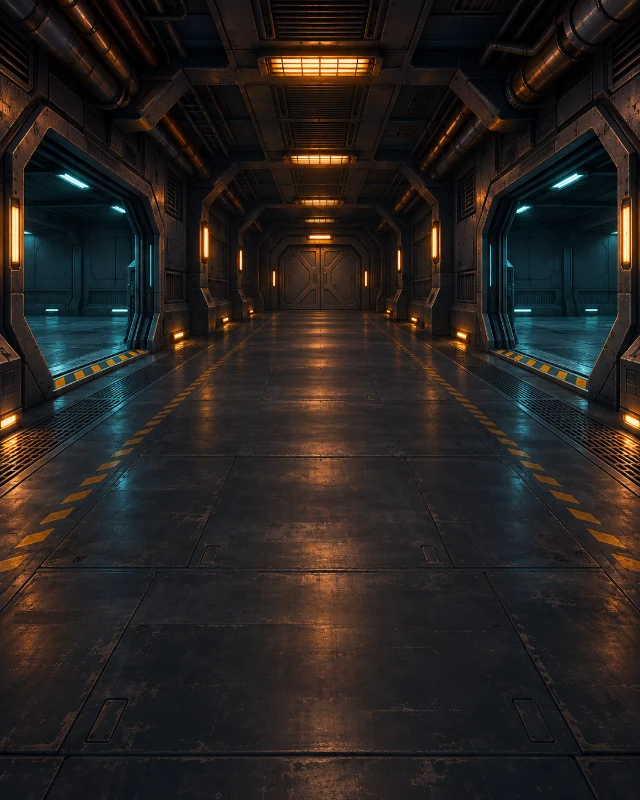
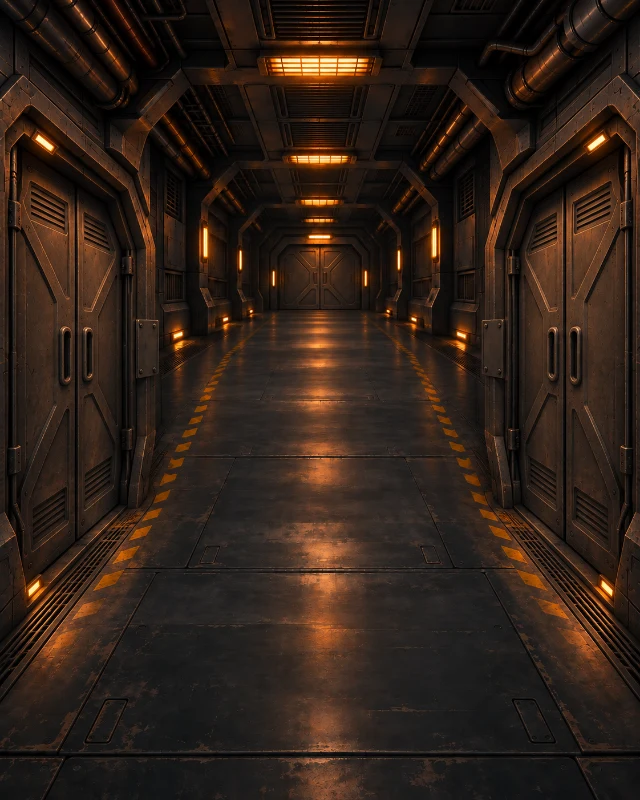
Simplify corridor encounters and integrate recessed airlocks
Refs #72, #39. Use six cargo stacks and two boarders, replace floating labels with nonverbal cues, and animate textured door leaves within the revised corridor walls.

diff --git a/src/game/scene.ts b/src/game/scene.ts
@@ -1,7 +1,7 @@
 import Phaser from 'phaser';
 import type { InputFrame } from './input';
 import {
-  createBoarding, stepBoarding, BOARDING_TUNING, BOARDING_DEPTHS, boardingCover, boardingBoarderPose, boardingAirlockTargetActive, BOARDING_AIRLOCK_TARGETS, BOARDING_EJECTION_TIME, BOARDING_VENT_WARNING, difficultyFor, BOARDING_LINE, BOARDING_CYCLE, BOARDING_WARNING, BOARDING_CARRIER_RADIUS, BOARDING_AIRLOCKS, BOARDING_COVER, BOARDING_MINE_LIFETIME, BOARDING_BLAST_RADIUS, type BoardingState, type BoardingInput,
+  createBoarding, stepBoarding, BOARDING_INTERIOR_SLOTS, BOARDING_DEPTHS, boardingCover, boardingBoarderPose, boardingAirlockTargetActive, BOARDING_AIRLOCK_TARGETS, BOARDING_EJECTION_TIME, BOARDING_VENT_WARNING, BOARDING_VENT_RECHARGE, difficultyFor, BOARDING_LINE, BOARDING_CYCLE, BOARDING_WARNING, BOARDING_CARRIER_RADIUS, BOARDING_MINE_LIFETIME, BOARDING_BLAST_RADIUS, type BoardingState, type BoardingInput,
   createSpaceGunner, stepSpaceGunner, SPACE_GUNNER_DEFENSE_LINE, type SpaceGunnerInput, type SpaceGunnerState, type SpaceGunnerAttacker,
   gunnerTargetAt, gunnerFireEvery, GUNNER_SHOT_FEEDBACK_SECONDS, type GunnerShotFeedback,
   createBomber, createFlight, createGunner, createLifeSupport, createSpaceBattleBomber, createSpaceBattlePilot, stepBomber,
@@ -39,6 +39,34 @@ export class FlightScene extends Phaser.Scene {
     return layer;
   }
   private interiorDepth(y: number) { return -1.9 + y / 600; }
+
+  private doorMasks: { shape: Phaser.GameObjects.Graphics; mask: Phaser.Display.Masks.GeometryMask }[] = [];
+  private airlockOutline(side: number) {
+    // Fits the recessed leaf surfaces in the corridor texture, in logical canvas coordinates.
+    return [[12,114],[22,101],[76,141],[90,179],[90,350],[21,395],[12,366]]
+      .map(([x,y]) => ({ x: side ? WIDTH - x : x, y }));
+  }
+
+  private paintAirlockPanels(side: number, opening: number) {
+    if (!this.hasArt('boarding-corridor')) return false;
+    let clip = this.doorMasks[side];
+    if (!clip) {
+      const shape = this.add.graphics().setVisible(false);
+      shape.fillStyle(0xffffff).fillPoints(this.airlockOutline(side), true);
+      clip = this.doorMasks[side] = { shape, mask: shape.createGeometryMask() };
+    }
+    const minX = side ? 390 : 12, maxX = side ? 468 : 90, seam = (minX + maxX) / 2;
+    for (const half of [0,1]) {
+      const slide = (half ? 1 : -1) * 45 * opening;
+      this.drawArt('boarding-corridor', WIDTH / 2 + slide, HEIGHT / 2, WIDTH, HEIGHT, 0, 1, false, -1.94);
+      const panel = this.artPool[this.artUsed - 1];
+      const textureWidth = panel.frame?.realWidth ?? 640, textureHeight = panel.frame?.realHeight ?? 800;
+      const x = half ? seam : minX, width = half ? maxX - seam : seam - minX;
+      panel.setCrop(x / WIDTH * textureWidth, 100 / HEIGHT * textureHeight,
+        width / WIDTH * textureWidth, 296 / HEIGHT * textureHeight).setMask(clip.mask);
+    }
+    return true;
+  }
 
   private paintCargo(x: number, y: number, scale: number) {
     const g = this.interiorLayer(this.interiorDepth(y + 1));
@@ -81,6 +109,8 @@ export class FlightScene extends Phaser.Scene {
     if (!this.hasArt(name)) return false;
     const image = this.artPool[this.artUsed] ?? this.add.image(0, 0, `illustrated-${name}`);
     this.artPool[this.artUsed++] = image;
+    // Images move between pooled roles; never retain a previous door crop or mask.
+    image.setCrop?.(); image.clearMask?.();
     image.setTexture(`illustrated-${name}`).setPosition(x, y).setDisplaySize(width, height)
       .setRotation(rotation).setAlpha(alpha).setDepth(depth).setVisible(true);
     return true;
@@ -258,45 +288,55 @@ export class FlightScene extends Phaser.Scene {
   private paintBoardingMode(g: Phaser.GameObjects.Graphics) {
     const s = this.boarding;
     if (s.role === 'Life Support') {
-      g.fillStyle(0x0a1425, .8); g.fillRoundedRect(12, 14, 456, 52, 6);
-      this.drawLabel('HOLD THE CORRIDOR', 240, 28, 15, '#79e1ce');
-      this.drawLabel(s.elapsed < 5 ? 'Shoot raised rifles • Shoot glowing door targets' : `Shot ${s.shotBoarders} • Ejected ${s.ejected}`, 240, 51, 11);
+      if (s.elapsed < 5) {
+        g.fillStyle(0x0a1425, .8); g.fillRoundedRect(12, 14, 456, 52, 6);
+        this.drawLabel('HOLD THE CORRIDOR', 240, 28, 15, '#79e1ce');
+        this.drawLabel('Shoot raised rifles • Shoot glowing door targets', 240, 51, 11);
+      }
       const doors = this.interiorLayer(-1.95);
-      for (const [i, z] of BOARDING_AIRLOCKS.entries()) {
+      for (const i of [0,1]) {
         const lock = s.airlocks[i], active = boardingAirlockTargetActive(s, i), target = BOARDING_AIRLOCK_TARGETS[i];
         const opening = lock.warning !== null ? (1 - lock.warning / BOARDING_VENT_WARNING) ** 2
           : lock.openRemaining > 0 ? Math.min(1, lock.openRemaining / .12) : 0;
-        const doorX = i ? 399 : 21, doorW = 60, doorY = 150, doorH = 280;
-        doors.fillStyle(0x030912, .92); doors.fillRect(doorX, doorY, doorW, doorH);
-        doors.lineStyle(3, active || opening > 0 ? 0x79e1ce : 0x526776); doors.strokeRect(doorX, doorY, doorW, doorH);
-        for (const half of [0, 1]) {
-          const panelW = doorW / 2 * (1 - opening);
-          const x = half ? doorX + doorW - panelW : doorX;
-          doors.fillStyle(0x263c49, .95); doors.fillRect(x, doorY + 3, panelW, doorH - 6);
-          doors.lineStyle(1, 0x8ba4ad, .65); doors.strokeRect(x, doorY + 3, panelW, doorH - 6);
-          for (const y of [180, 245, 355, 400]) {
-            doors.lineStyle(2, 0x101e2a); doors.lineBetween(x + 2, y, x + Math.max(2, panelW - 2), y);
+        const outline = this.airlockOutline(i);
+        doors.fillStyle(0x03080d); doors.fillPoints(outline, true);
+        if (!this.paintAirlockPanels(i, opening)) {
+          // Perspective fallback with a widening central opening, never a luminous flat rectangle.
+          const shell = this.interiorLayer(-1.94), outer = i ? 468 : 12, inner = i ? 390 : 90;
+          const point = (u: number, v: number) => ({x: outer + (inner - outer) * u,
+            y: (114 + 65 * u) * (1 - v) + (395 - 45 * u) * v});
+          for (const [from,to] of [[0,(1-opening)/2],[1-(1-opening)/2,1]]) {
+            shell.fillStyle(i ? 0x423a31 : 0x4a3b2b);
+            shell.fillPoints([point(from,0),point(to,0),point(to,1),point(from,1)],true);
+            shell.lineStyle(1,0x8c785a,.45);
+            shell.strokePoints([point(from,0),point(to,0),point(to,1),point(from,1)],true);
           }
         }
         if (lock.openRemaining > 0) {
-          const fx = this.interiorLayer(-.55), phase = this.decorativeTime(s.elapsed);
-          for (let n = 0; n < 9; n++) {
-            const t = ((phase * 2 + n / 9) % 1), x = (i ? 330 : 150) + (i ? 120 : -120) * t;
-            const y = 170 + n * 27;
-            fx.lineStyle(1 + t, 0xb9f6ef, .2 + .5 * t);
-            fx.lineBetween(x, y, x + (i ? -20 : 20), y + 6);
+          const fx = this.interiorLayer(-.55), phase = this.decorativeTime(s.elapsed), endX = i ? 430 : 50;
+          for (let n = 0; n < 7; n++) {
+            const t = ((phase * 2 + n / 7) % 1), startX = i ? 355 : 125, startY = 235 + n * 17;
+            const x = startX + (endX - startX) * t, y = startY + (285 - startY) * t;
+            fx.lineStyle(1 + t, 0xb9d9d3, .15 + .4 * t);
+            fx.lineBetween(x, y, x + (i ? -15 : 15), y + (startY - 285) * .08);
           }
         }
-        const color = lock.warning !== null ? 0xffca83 : active ? 0x79ffe1 : 0x526776;
-        g.fillStyle(0x102330, .95); g.fillRoundedRect(target.x - 27, target.y - 30, 54, 60, 6);
-        g.lineStyle(3, color); g.strokeCircle(target.x, target.y, target.radius);
-        g.fillStyle(color, active ? .25 : .08); g.fillCircle(target.x, target.y, target.radius - 3);
-        g.lineStyle(2, color); g.lineBetween(target.x - 10, target.y, target.x + 10, target.y);
-        g.lineBetween(target.x, target.y - 10, target.x, target.y + 10);
-        this.drawLabel(lock.warning !== null ? 'OPENING' : lock.openRemaining > 0 ? 'VENTING' : lock.cooldown > 0 ? `${Math.ceil(lock.cooldown)}s` : active ? 'SHOOT' : 'STANDBY', target.x, target.y + 40, 10, active ? '#79ffe1' : '#c7dce4');
-        this.drawLabel(i ? 'RIGHT AIRLOCK' : 'LEFT AIRLOCK', z.x + z.width / 2, 125, 9);
+        const color = lock.warning !== null ? 0xffca83 : active ? 0x79ffe1 : 0x52606a;
+        // An inset wall control, with readiness light and a quiet segmented recharge gauge.
+        g.fillStyle(0x0d161d, .9); g.fillCircle(target.x, target.y, 26);
+        g.lineStyle(2, 0x6e7779, .7); g.strokeCircle(target.x, target.y, 25);
+        g.fillStyle(color, active ? .3 : .08); g.fillCircle(target.x, target.y, 20);
+        g.lineStyle(active || lock.warning !== null ? 3 : 1, color, active ? 1 : .6);
+        g.strokeCircle(target.x, target.y, active ? target.radius : 18);
+        g.lineBetween(target.x - 8, target.y, target.x + 8, target.y);
+        g.lineBetween(target.x, target.y - 8, target.x, target.y + 8);
+        const recharge = BOARDING_VENT_RECHARGE * (this.config.naturalOne ? 2 : 1);
+        for (let segment = 0; segment < 8; segment++) {
+          g.fillStyle(segment / 8 < 1 - lock.cooldown / recharge ? 0x7bada5 : 0x293638, .85);
+          g.fillRect(target.x - 23 + segment * 6, target.y + 31, 4, 3);
+        }
       }
-      for (let depth = 0; depth < 3; depth++) for (const slot of [0, 1, 2, 3]) {
+      for (let depth = 0; depth < 3; depth++) for (const slot of BOARDING_INTERIOR_SLOTS) {
         const c = boardingCover(slot, depth);
         this.paintCargo(c.x, c.y, BOARDING_DEPTHS[depth].scale);
       }
@@ -326,14 +366,13 @@ export class FlightScene extends Phaser.Scene {
           }
         }
         const radius = BOARDING_DEPTHS[b.depth].radius;
-        this.drawLabel(b.phase === 'relocating' ? 'MOVING' : exposed ? (b.remaining < .5 ? 'FIRING' : 'AIMING') : 'COVERED', b.x, b.y - 72 * scale, 10, exposed ? '#ffba9c' : '#c0cfdf');
         if (exposed) {
           g.lineStyle(1, 0xffca83, .7);
           g.strokeCircle(b.x, b.y, radius);
         }
       }
       for (const e of s.ejections) {
-        const t = 1 - e.remaining / BOARDING_EJECTION_TIME, endX = e.side ? 455 : 25;
+        const t = 1 - e.remaining / BOARDING_EJECTION_TIME, endX = e.side ? 430 : 50;
         const x = e.x + (endX - e.x) * t, y = e.y + (285 - e.y) * t;
         const scale = e.scale * (1 - .85 * t), alpha = 1 - t;
         if (!this.drawArt('boarding-boarder', x, y, 53 * scale, 126 * scale, this.reducedMotion?.matches ? 0 : (e.side ? 1 : -1) * t, alpha, false, -.5)) {
@@ -362,7 +401,6 @@ export class FlightScene extends Phaser.Scene {
       if (s.impactFlash > 0) {
         g.fillStyle(0xff465d, s.impactFlash * .7);
         g.fillRect(s.impactSide ? WIDTH - 55 : 0, 90, 55, 420);
-        this.drawLabel(s.impactSide ? 'HIT FROM RIGHT' : 'HIT FROM LEFT', 240, 82, 12, '#ffb4a2');
       }
     }
     else {

diff --git a/tests/rendering.test.ts b/tests/rendering.test.ts
@@ -346,7 +346,7 @@ test('illustrated sprites reuse a bounded pool, hide retired objects and leave a
   h.scene.textures = { exists: () => true };
   h.scene.add.image = (_x: number, _y: number, texture: string) => {
     const image: any = { texture };
-    for (const method of ['setTexture', 'setPosition', 'setDisplaySize', 'setRotation', 'setAlpha', 'setDepth', 'setVisible']) {
+    for (const method of ['setCrop', 'setMask', 'clearMask', 'setTexture', 'setPosition', 'setDisplaySize', 'setRotation', 'setAlpha', 'setDepth', 'setVisible']) {
       image[method] = (...args: any[]) => { image[method.slice(3)] = args; return image; };
     }
     images.push(image); return image;
@@ -398,14 +398,14 @@ test('Boarding textures and labels are pooled, retire on mode switch, and retain
   const h=harness(),images:any[]=[],labels:any[]=[];
   const object=(collection:any[],methods:string[])=>{const o:any={};for(const m of methods)o[m]=(...v:any[])=>{o[m.slice(3)]=v;return o;};collection.push(o);return o;};
   h.scene.textures={exists:()=>true};
-  h.scene.add.image=()=>object(images,['setTexture','setPosition','setDisplaySize','setRotation','setAlpha','setDepth','setVisible']);
+  h.scene.add.image=()=>object(images,['setCrop','setMask','clearMask','setTexture','setPosition','setDisplaySize','setRotation','setAlpha','setDepth','setVisible']);
   h.scene.add.text=()=>object(labels,['setText','setPosition','setOrigin','setFontSize','setColor','setDepth','setVisible']);
   h.scene.begin({total:10,naturalOne:false},'Boarding Party','Life Support');
   const s=h.scene.boarding;s.boarders=[{id:1,x:200,y:193,slot:0,depth:0,phase:'exposed',remaining:.3},{id:2,x:415,y:372,slot:3,depth:1,phase:'relocating',remaining:.8}];
   s.lasers=[{id:3,x:200,y:193,side:0,duration:.9,remaining:.4}];const snapshot=JSON.stringify(s);freeze(s);h.paint();
   assert.ok(images.some(i=>i.Texture[0]==='illustrated-boarding-corridor'));
   assert.ok(images.some(i=>i.Texture[0]==='illustrated-boarding-rifle'&&i.Depth[0]>.0));
-  assert.ok(labels.some(l=>l.Text[0]==='SHOOT'));const count=[images.length,labels.length];h.paint();assert.deepEqual([images.length,labels.length],count);
+  assert.ok(labels.every(l=>!['SHOOT','STANDBY','OPENING','VENTING','COVERED','AIMING','FIRING','MOVING','LEFT AIRLOCK','RIGHT AIRLOCK'].includes(l.Text?.[0])));const count=[images.length,labels.length];h.paint();assert.deepEqual([images.length,labels.length],count);
   assert.equal(JSON.stringify(s),snapshot);
   h.scene.textures.exists=(key:string)=>key!=='illustrated-boarding-corridor';h.paint();assert.ok(h.commands.some(c=>c[0]==='strokeRect'&&c[1]===195&&c[2]===100));
   assert.ok(images.some(i=>i.Texture[0]==='illustrated-boarding-boarder'&&i.Visible[0]));
@@ -415,11 +415,11 @@ test('Boarding textures and labels are pooled, retire on mode switch, and retain
 
 test('cargo stays present and depth-orders with enemies; ducked bodies do not leak beneath stacks',()=>{
   const h=harness(),images:any[]=[];
-  const object=()=>{const o:any={};for(const m of ['setTexture','setPosition','setDisplaySize','setRotation','setAlpha','setDepth','setVisible'])o[m]=(...v:any[])=>{o[m.slice(3)]=v;return o;};images.push(o);return o;};
+  const object=()=>{const o:any={};for(const m of ['setCrop','setMask','clearMask','setTexture','setPosition','setDisplaySize','setRotation','setAlpha','setDepth','setVisible'])o[m]=(...v:any[])=>{o[m.slice(3)]=v;return o;};images.push(o);return o;};
   h.scene.textures={exists:()=>true};h.scene.add.image=object;
   h.scene.begin({total:10,naturalOne:false},'Boarding Party','Life Support');h.paint();
   const cargo=()=>h.layers.filter(l=>l.visible&&l.commands.some(c=>c[0]==='fillEllipse'));
-  assert.equal(cargo().length,12,'all stacks exist without enemies');
+  assert.equal(cargo().length,6,'one fixed stack per side at each depth, even without enemies');
   const emptyDepths=cargo().map(l=>l.depth);
   const s=h.scene.boarding;s.boarders=[{id:1,...rules.boardingCover(0,0),slot:0,depth:0,phase:'exposed',remaining:1},{id:2,...rules.boardingCover(1,2),slot:1,depth:2,phase:'warning',remaining:.5}];
   h.paint();assert.deepEqual(cargo().map(l=>l.depth),emptyDepths);
@@ -440,4 +440,38 @@ test('door/ejection animation phases render frozen states with art or fallbacks 
     h.paint();const count=h.layers.length;h.paint();assert.equal(h.layers.length,count);assert.equal(JSON.stringify(state),before);
     assert.ok(h.commands.some(c=>c[0]==='lineBetween'),'airflow is drawn');
   }
+});
+
+test('corridor keeps only opening guidance, then removes all in-scene labels, retaining nonverbal cues',()=>{
+  const h=harness(),labels:any[]=[];
+  h.scene.add.text=()=>{const o:any={};for(const m of ['setText','setPosition','setOrigin','setFontSize','setColor','setDepth','setVisible'])o[m]=(...v:any[])=>{o[m.slice(3)]=v;return o;};labels.push(o);return o;};
+  h.scene.begin({total:10,naturalOne:true},'Boarding Party','Life Support');
+  const s=h.scene.boarding;s.boarders=[{id:1,...rules.boardingCover(0,0),slot:0,depth:0,phase:'exposed',remaining:.2},{id:2,x:415,y:337,slot:1,depth:1,phase:'relocating',remaining:.8}];
+  h.paint();assert.equal(labels.filter(l=>l.Visible?.[0]).length,2,'brief opening guidance only');
+  s.elapsed=6;s.impactFlash=.2;s.airlocks[0].cooldown=8;h.paint();
+  assert.equal(labels.filter(l=>l.Visible?.[0]).length,0,'no enemy, door or damage words in the corridor');
+  assert.ok(h.commands.some(c=>c[0]==='fillCircle'&&c[1]===rules.BOARDING_AIRLOCK_TARGETS[1].x),'lit wall target remains');
+  assert.ok(h.commands.filter(c=>c[0]==='fillRect'&&c[4]===3).length>=16,'two segmented recharge gauges');
+});
+
+test('textured airlock panels slide within two reused masks and release crops/masks on mode changes',()=>{
+  const h=harness(),images:any[]=[];
+  h.scene.textures={exists:()=>true};
+  h.scene.add.image=()=>{
+    const o:any={frame:{realWidth:640,realHeight:800},mask:null};
+    for(const m of ['setTexture','setPosition','setDisplaySize','setRotation','setAlpha','setDepth','setVisible','setCrop'])o[m]=(...v:any[])=>{o[m.slice(3)]=v;return o;};
+    o.setMask=(mask:any)=>{o.mask=mask;return o;};o.clearMask=()=>{o.mask=null;return o;};images.push(o);return o;
+  };
+  h.scene.begin({total:10,naturalOne:false},'Boarding Party','Life Support');h.paint();
+  const panels=()=>images.filter(i=>i.Visible[0]&&i.mask);
+  assert.equal(panels().length,4);assert.equal(new Set(panels().map(i=>i.mask)).size,2);
+  assert.ok(panels().every(i=>i.Crop.length===4&&i.Crop.every(Number.isFinite)&&i.Crop[2]>0&&i.Crop[3]>0));
+  const closed=panels().map(i=>i.Position[0]),count=h.layers.length;
+  h.scene.boarding.airlocks[0].warning=.3;h.paint();
+  assert.ok(panels()[0].Position[0]<closed[0]);assert.ok(panels()[1].Position[0]>closed[1]);
+  assert.equal(h.layers.length,count,'door clipping shapes are reused');
+  h.scene.situation='Asteroid Field';h.scene.role='Pilot';h.paint();
+  assert.ok(images.filter(i=>i.Visible[0]).every(i=>i.mask===null&&i.Crop.length===0),'reused images never retain door clipping');
+  h.scene.situation='Boarding Party';h.scene.role='Life Support';h.scene.textures.exists=(key:string)=>key!=='illustrated-boarding-corridor';h.paint();
+  assert.equal(panels().length,0);assert.ok(h.commands.some(c=>c[0]==='fillPoints'),'perspective door fallback stays usable');
 });

diff --git a/tests/boarding.test.ts b/tests/boarding.test.ts
@@ -256,9 +256,9 @@ test('interrupted exposed attack emits no laser; surviving boarders advance thro
   run(s,.65+BOARDING_TUNING.Medium.attackTime+1.6);assert.equal(s.boarders[0].depth,2);
   assert.ok(BOARDING_DEPTHS[2].scale>BOARDING_DEPTHS[0].scale);assert.ok(BOARDING_DEPTHS[2].laserTime<BOARDING_DEPTHS[0].laserTime);
 });
-test('first-person opening has no boarders for two seconds and never exceeds four active enemies',()=>{
+test('first-person opening has no boarders for two seconds and never exceeds two active enemies',()=>{
   const s=createBoarding('Life Support');run(s,1.95);assert.equal(s.boarders.length,0);run(s,.1);assert.equal(s.boarders.length,1);
-  for(let i=0;i<500&&!s.finished;i++){tick(s);assert.ok(s.boarders.length<=4);}
+  for(let i=0;i<500&&!s.finished;i++){tick(s);assert.ok(s.boarders.length<=2);}
 });
 
 test('warning craft can be destroyed before movement, including a warning expiry inside a swept mine step',()=>{
@@ -266,5 +266,23 @@ test('warning craft can be destroyed before movement, including a warning expiry
     const s=state('Bomber');s.pods=[{...pod(1,240,230,-500),warningRemaining:warning}];
     s.mines=[{id:4,x:240,y:230,armIn:0,expiresIn:4,blastRadius:58}];tick(s);
     assert.equal(s.pods.length,0);assert.equal(s.intercepted,1);assert.equal(s.breaches,0);assert.equal(s.hull,3);
+  }
+});
+
+test('Life Support uses one slot per side, caps at two in every band, and reuses freed slots',()=>{
+  for(const total of [5,10,15,16])for(const naturalOne of [false,true]) {
+    const cfg={total,naturalOne},s=createBoarding('Life Support');
+    for(let i=0;i<400;i++) {
+      s.hull=5;tick(s,{},.05,cfg);
+      assert.ok(s.boarders.length<=2);assert.ok(s.boarders.every(b=>b.slot===0||b.slot===1));
+      assert.equal(new Set(s.boarders.map(b=>b.slot)).size,s.boarders.length);
+    }
+    assert.equal(s.boarders.length,2);
+    for(const side of [0,1]) {
+      const survivor=s.boarders.find(b=>b.slot!==side)!;
+      s.boarders=s.boarders.filter(b=>b.slot!==side);s.spawnIn=0;tick(s,{},.05,cfg);
+      assert.equal(s.boarders.length,2);assert.ok(s.boarders.some(b=>b.id===survivor.id));
+      const replacement=s.boarders.find(b=>b.slot===side)!;assert.equal(replacement.depth,0);assert.equal(replacement.phase,'warning');
+    }
   }
 });

diff --git a/src/game/rules.ts b/src/game/rules.ts
@@ -1558,7 +1558,8 @@ export function boardingCover(slot: number, depth: number) {
   const d = BOARDING_DEPTHS[depth];
   return { x: 240 + (slot % 2 ? 1 : -1) * (d.spread + (slot >= 2 ? 15 : -15)), y: d.y + (slot >= 2 ? 22 : -12) };
 }
-export const BOARDING_COVER = [0, 1, 2, 3].map(slot => boardingCover(slot, 0));
+export const BOARDING_INTERIOR_SLOTS = [0, 1] as const;
+export const BOARDING_COVER = BOARDING_INTERIOR_SLOTS.map(slot => boardingCover(slot, 0));
 export const BOARDING_AIRLOCKS = [{ x: 20, y: 90, width: 95, height: 380 }, { x: 365, y: 90, width: 95, height: 380 }];
 export interface BoardingPod {
   kind: 'probe' | 'shuttle';
@@ -1851,7 +1852,10 @@ function stepBoardingInterior(s: BoardingState, config: FlightConfig, input: Boa
     return;
   s.spawnIn -= dt;
   while (s.spawnIn <= 0) {
-    const start = Math.floor(random() * 4), slot = [0, 1, 2, 3].map(i => (start + i) % 4).find(slot => !s.boarders.some(b => b.slot === slot));
+    const start = Math.floor(random() * BOARDING_INTERIOR_SLOTS.length);
+    const slot = s.boarders.length < BOARDING_INTERIOR_SLOTS.length
+      ? BOARDING_INTERIOR_SLOTS.map((_, i) => BOARDING_INTERIOR_SLOTS[(start + i) % BOARDING_INTERIOR_SLOTS.length]).find(slot => !s.boarders.some(b => b.slot === slot))
+      : undefined;
     if (slot !== undefined)
       s.boarders.push({ id: s.nextId++, ...boardingCover(slot, 0), depth: 0, slot, phase: 'warning', remaining: BOARDING_COVER_WARNING });
     s.spawnIn += tuning.boarderEvery;

diff --git a/docs/boarding-cargo-airlocks.md b/docs/boarding-cargo-airlocks.md
@@ -4,26 +4,29 @@ Drake approved this follow-up on 2026-11-06. It supersedes the Life Support cove
 
 ## Current behavior
 
-- Twelve fixed cargo stacks (four slots at three depths) sit on the floor. Each has a smaller case resting on a larger case, perspective top/side faces, straps, seams, labels and contact shadows. Cargo and boarders share projected depth ordering. Covered enemies duck behind their own stack; only a helmet peeks above it. Exposed aiming regions and rule-owned projection/hit radii retain their existing dimensions.
+- Six fixed cargo stacks (one per side at three depths) sit on the floor. Each has a smaller case resting on a larger case, perspective top/side faces, straps, seams, labels and contact shadows. Cargo and boarders share projected depth ordering. Covered enemies duck behind their own stack; only a helmet peeks above it. Exposed aiming regions and rule-owned projection/hit radii retain their existing dimensions.
+- At most two boarders are active, one slot per side. A freed slot can respawn at the far depth on the existing spawn cadence; attack timings, depth progression and rifle cooldowns remain unchanged.
+- Enemy state words, door names/prompts and recharge text are removed. After five seconds the opening guidance disappears too. Ducking, raised rifles, muzzle lights, motion and lasers communicate state. An inset wall control lights during a crossing, with eight small recharge segments below it. The external main HUD remains.
 - Each side door has a rule-owned target at (100,280) or (380,280), radius 23 logical pixels. A target lights during that side's relocating boarder approach/occupancy (the first two thirds of the existing 1.6-second relocation) when its independent airlock is ready. Departure, absence of a crossing, opening and recharge leave the target unlit. These dimensions are provisional playtest tuning.
 - Shoot a glowing target with the rifle to activate its door. Touch aims plus separate Fire; mouse aims and primary click/hold fires; keyboard arrows/WASD aim at the existing normalized 225px/s cap and Space/Enter fires. Fire also works with mouse or keyboard aim. There are no Vent buttons or Q/E shortcuts. Controls use the same rifle cooldown as enemy shots. A shot hits one lit control or one exposed boarder, with control priority if their aiming areas overlap; an unlit control does not intercept a shot.
 - Airlocks retain a 0.6-second warning and independent eight-second recharge (16 seconds on Natural 1). Occupancy is evaluated at warning expiry: a late shot may open an empty bay and still consumes the recharge. Ejection wins a tied enemy emission; already-fired lasers remain live.
+- The revised generated corridor contains recessed wall airlocks with matching perspective, metal, wear, shadows and amber practical lighting. The original generated door leaves are sampled directly from that same background texture, split into two cropped images per side and clipped by two reusable geometry masks. During opening they slide behind the jambs without scaling/compressing the panels. No full-door luminous outline is added. Missing artwork uses shaded perspective polygons. See [artwork provenance](illustrated-artwork.md) and the [exact two editing prompts](boarding-corridor-art-prompts.json).
 - Doors slide open, airflow streaks move into the opening, and ejected boarders move toward the doorway while shrinking/fading for approximately 0.45 seconds. This duration is provisional. Ejection and its 125-point reward occur once at warning expiry; animation has no collision/damage/scoring role. Reduced motion suppresses decorative streak motion and spin. Simulation timers freeze on pause and clear on retry. Pooled graphics/images are reused and hidden outside this mode.
 
 ## Engineering evidence — 2026-11-06
 
 Based on current main `09a416a` (PR #74), feature branch `codex/boarding-cargo-airlock-targets`. Current code and this record are delivered together in the linked review PR.
 
-- `npm test`: **338 passed**. Coverage includes lit/unlit controls, approach/occupancy/departure boundaries, radius misses, rifle cooldown, independent recharge, all four bands with/without Natural 1, late/empty vent, one-shot resolution, ejection/attack ordering, single awards, persistent lasers, effect expiry, pause/interruption/retry, fixed cargo depth, covered-body visibility, pooled layers and frozen-state rendering/fallbacks.
+- `npm test`: **341 passed**. Coverage includes lit/unlit controls, approach/occupancy/departure boundaries, radius misses, rifle cooldown, independent recharge, all four bands with/without Natural 1, late/empty vent, one-shot resolution, ejection/attack ordering, single awards, persistent lasers, effect expiry, pause/interruption/retry, the two-boarder cap and freed-slot reuse in every band/Natural-1 combination, six fixed cargo stacks, label removal, cargo depth, covered-body visibility, bounded door masks, pooled layers and frozen-state rendering/fallbacks.
 - `npm run build`: passed; the existing deferred Phaser chunk-size advisory remains.
-- `node --import tsx scripts/calibrate-scores.ts`: 288 seeded samples per mode. All twelve modes retain their prior observed percentiles; Life Support P10/P50/P90 = **61/3100/4900**. No anchors, rewards, bands or report version changed. Synthetic samples are not human balance evidence.
-- `scripts/browser-boarding-check.cjs`: passed in isolated headless Chromium contexts at desktop 1440×1100 and **emulated touch** 390×844 and 320×844. Includes all four Boarding stations, keyboard aiming/firing, mouse and touch rifle actions, no firing from touch aim alone, both shootable door controls, independent recharges, frozen ejection effects, pause/resume/resize, reports/retry, Natural-1 retry, map challenge links/save/reload and missing-art fallback. Crossing fixtures freeze the simulation while the test runner scrolls/positions inputs, then resume to consume real input events; they do not prove human reaction time or full-round balance. No runtime/console errors in the main flows.
+- `node --import tsx scripts/calibrate-scores.ts`: 288 seeded samples per mode. All twelve modes retain their prior observed percentiles; the Life Support minimum changes from 55 to 57, while every other sample summary remains unchanged; Life Support P10/P50/P90 = **61/3100/4900**. No anchors, rewards, bands or report version changed. Synthetic samples are not human balance evidence.
+- `scripts/browser-boarding-check.cjs`: passed in isolated headless Chromium contexts at desktop 1440×1100 and **emulated touch** 390×844 and 320×844. Includes all four Boarding stations, keyboard aiming/firing, mouse and touch rifle actions, no firing from touch aim alone, both shootable door controls, independent recharges, frozen ejection effects, pause/resume/resize, reports/retry, Natural-1 retry, map challenge links/save/reload and missing-art fallback. Crossing fixtures freeze the simulation while the test runner scrolls/positions inputs, then resume to consume real input events; they do not prove human reaction time or full-round balance. Added empty, occupied, opening and venting screenshots at each width, with assertions that floating labels are absent. No runtime/console errors in the main flows.
 - `scripts/browser-polish-check.cjs`: passed for all eight earlier station combinations and map flows at desktop/390px/320px, with no runtime/console errors.
-- Baseline screenshots: `/tmp/boarding-cargo-baseline/`. Updated screenshots and JSON checks: `/tmp/boarding-cargo-qa/`, including door opening/ejection at each tested width. These are local QA artifacts, not shipped assets. Canvas screenshots were visually inspected at narrow widths and in fallback mode.
+- Baseline screenshots for the initial PR: `/tmp/boarding-cargo-baseline/`; the pre-cleanup revision `917ef63` is recorded in `/tmp/boarding-cargo-qa/`. Cleaner-corridor screenshots and JSON checks: `/tmp/corridor-clean-qa/`; broader original-mode checks: `/tmp/corridor-clean-polish/`. These are local QA artifacts, not shipped assets. Canvas screenshots were visually inspected at narrow widths and in fallback mode.
 
 ## Owner playtest checklist
 
-- [ ] At all four difficulty bands with/without Natural 1, assess readable cover/exposure and whether crossing targets provide enough reaction time.
+- [ ] At all four difficulty bands with/without Natural 1, assess the two-boarder pacing, nonverbal cover/exposure cues and whether crossing targets provide enough reaction time.
 - [ ] Shoot each door target, try a late shot, and confirm door opening, suction, single ejection rewards, separate recharges and persistent incoming lasers.
 - [ ] Check actual iPhone Safari and iPad Safari in portrait/landscape: touch aiming plus Fire, readable door targets, pause/resume and retry. Emulation above does not establish these checks.
 - [ ] Check desktop keyboard-only aiming/firing and mouse controls; assess full-round pacing and provisional ratings.

diff --git a/AGENTS.md b/AGENTS.md
@@ -33,7 +33,7 @@ This repo contains player-facing browser mini-games supporting the Galaxy Grown 
 
 Space Battle / Gunner has a separately approved reticle-speed exception: touch/mouse aim directly, while keyboard aiming is normalized and capped at 225 logical pixels/second. All inputs share identical firing cooldowns; reticle movement speeds are intentionally not equal. Touching/dragging its playfield only aims; a separate Fire button controls firing independently. Mouse movement aims and primary click/hold or Fire shoots. This design approval does not enable the unimplemented mode or change other modes' controls.
 
-Boarding Party uses the approved repel-boarders framing in docs/boarding-party-design.md, with the current clarity/pacing follow-up in docs/boarding-party-clarity.md. Its Gunner and Life Support have the same approved aiming exception: direct touch/mouse aim, normalized keyboard aim capped at 225 logical pixels/second, identical firing cooldowns, touch aim separate from Fire, and mouse click/hold or Space/Enter firing. Pilot alone steers; Gunner and Bomber fly automatically. Carrier disable stops future launches without removing active pods or ending the 60-second round. Bomber retains the shared aimed aft launcher and chronological mine/breach resolution. Life Support shoots exposed boarders and glowing targets beside side airlock doors during enemy crossings; rifle hits activate independent left/right airlocks, with no Vent buttons or Q/E shortcuts (see docs/boarding-cargo-airlocks.md); covered targets block rifle fire, and venting ejects enemies in the marked zone at warning expiry. Natural 1 gives Pilot 60% movement, Gunner half firing rate, Bomber half blast area, and Life Support double airlock recharge. Its approved follow-up uses 80% probes/20% two-hit shuttles, diagonal committed pursuit, and separate gentler Gunner/Bomber traffic with a 0.6-second shootable launch warning plus at least 0.8 seconds before breach. Life Support is stationary first-person corridor defense: boarders advance through depth/cover, fired lasers damage only on arrival and survive their source’s death/ejection. Preserve independent single-player runs and manual GM consequences; owner gameplay/device acceptance remains pending.
+Boarding Party uses the approved repel-boarders framing in docs/boarding-party-design.md, with the current clarity/pacing follow-up in docs/boarding-party-clarity.md. Its Gunner and Life Support have the same approved aiming exception: direct touch/mouse aim, normalized keyboard aim capped at 225 logical pixels/second, identical firing cooldowns, touch aim separate from Fire, and mouse click/hold or Space/Enter firing. Pilot alone steers; Gunner and Bomber fly automatically. Carrier disable stops future launches without removing active pods or ending the 60-second round. Bomber retains the shared aimed aft launcher and chronological mine/breach resolution. Life Support shoots exposed boarders and glowing targets beside side airlock doors during enemy crossings; rifle hits activate independent left/right airlocks, with no Vent buttons or Q/E shortcuts (see docs/boarding-cargo-airlocks.md); covered targets block rifle fire, and venting ejects enemies in the marked zone at warning expiry. Natural 1 gives Pilot 60% movement, Gunner half firing rate, Bomber half blast area, and Life Support double airlock recharge. Its approved follow-up uses 80% probes/20% two-hit shuttles, diagonal committed pursuit, and separate gentler Gunner/Bomber traffic with a 0.6-second shootable launch warning plus at least 0.8 seconds before breach. Life Support is stationary first-person corridor defense with six fixed cargo stacks, at most two boarders (one slot per side), recessed animated airlock doors and nonverbal enemy/door cues after brief opening guidance: boarders advance through depth/cover, fired lasers damage only on arrival and survive their source’s death/ejection. Preserve independent single-player runs and manual GM consequences; owner gameplay/device acceptance remains pending.
 
 Keep simulation and balance in src/game/rules.ts, rendering in src/game/scene.ts, input in src/game/input.ts, and the UI shell in src/main.ts. Use the existing stack unless a change is requested. Bomber and Gunner never steer the ship: flight is automatic. Both Bomber modes use the approved aimed aft launcher: aim throughout the rear 180 degrees from the aft rack; pointer targets choose a landing point up to 100 logical pixels away. Mines travel at 500 logical pixels/second (up to 0.2 seconds), detonate on active pursuers during travel, and otherwise arm at their fixed landing position. Selecting the rack places an immediately armed mine. Keyboard and Launch mine retain the previewed distance; default range is 100px. Pointer aim is direct; keyboard aim rotates at 120 degrees/second. Both Bomber modes are mine-only: Space/Enter or Launch mine makes one attempt per press, never repeated while held or banked through cooldown. Asteroid Bomber retains its asteroid spawning/drift, 0.65-second cooldown, five-second lifetime and 66px blast radius. Space Battle pursuers enter from behind on fixed columns aimed at the automatic course's predicted intercept; no missiles, forward attackers, or steering. Touch tap/drag-release and mouse primary release launch only behind the rack; cancellation or forward release discards the attempt. Clean flight-line crossings retire pursuers into a harmless 0.3-second peel-away. Space Battle resolves swept moving/stationary mine contacts at their actual contact positions before swept ship collisions up to the crossing instant. Asteroid Bomber resolves swept mine and hull contacts chronologically, with mine priority only at equal timestamps; asteroids removed by hull contact cannot later trigger mines or earn destruction points. Pause preserves aim direction/distance but clears gestures and queued actions; retry resets straight-aft aim, maximum range and flight. Space Battle Life Support repairs automatically after 1.5 seconds grounded within 35px on the panel's platform; interruption keeps partial progress, only the nearest panel advances (ID breaks ties), and hazard timers keep running. Preserve Pilot steering. Keep unsupported roles visibly disabled rather than implying they work.
 

diff --git a/README.md b/README.md
@@ -30,7 +30,7 @@ Use your character’s relevant modifier, including applicable proficiency only 
 
 ### Remaining designs and final acceptance
 
-[Issue #11](https://github.com/drakejrobert-sudo/galaxy-grown-games/issues/11) tracks the approved Space Battle Gunner and Boarding Party designs. [Boarding Party — repel boarders](docs/boarding-party-design.md) adds Pilot evasion of a closing carrier and pods, Gunner carrier damage/interception, Bomber aft mines, and Life Support rifle/airlock defense. Natural 1 slows Pilot movement to 60%, halves Gunner fire rate, halves Bomber blast area, and doubles Life Support airlock recharge. All rounds remain independent; disabling a carrier stops new launches but does not end the round or remove existing pods. The [clarity follow-up](docs/boarding-party-clarity.md) adds mostly probes and occasional armored shuttles, gentler Gunner/Bomber launch windows, diagonal pursuits, and first-person Life Support with advancing boarders and visible lasers. The [cargo and airlock follow-up](docs/boarding-cargo-airlocks.md) replaces vent buttons with shootable door targets and adds layered cargo stacks and animated ejections. See the follow-up records for engineering evidence and remaining owner checks.
+[Issue #11](https://github.com/drakejrobert-sudo/galaxy-grown-games/issues/11) tracks the approved Space Battle Gunner and Boarding Party designs. [Boarding Party — repel boarders](docs/boarding-party-design.md) adds Pilot evasion of a closing carrier and pods, Gunner carrier damage/interception, Bomber aft mines, and Life Support rifle/airlock defense. Natural 1 slows Pilot movement to 60%, halves Gunner fire rate, halves Bomber blast area, and doubles Life Support airlock recharge. All rounds remain independent; disabling a carrier stops new launches but does not end the round or remove existing pods. The [clarity follow-up](docs/boarding-party-clarity.md) adds mostly probes and occasional armored shuttles, gentler Gunner/Bomber launch windows, diagonal pursuits, and first-person Life Support with advancing boarders and visible lasers. The [cargo and airlock follow-up](docs/boarding-cargo-airlocks.md) replaces vent buttons with shootable door targets and adds six layered cargo stacks, at most two boarders, recessed animated airlocks and nonverbal combat cues. See the follow-up records for engineering evidence and remaining owner checks.
 
 [Final owner validation #39](https://github.com/drakejrobert-sudo/galaxy-grown-games/issues/39) tracks all 12 situation/role combinations. Each requires Drake's explicit approval of gameplay, all difficulty bands and Natural 1, score/rating balance, real iPhone/iPad Safari, and applicable desktop controls before being marked final. Earlier prototype playtests support that review but do not automatically complete it. Issues #3 and #10 retain their outstanding acceptance work.
 

diff --git a/docs/illustrated-artwork.md b/docs/illustrated-artwork.md
@@ -32,3 +32,11 @@ Six additional original illustrations were generated with the built-in OpenAI im
 Preparation used alpha-preserving bounds cropping and browser-canvas resizing/WebP encoding at quality 0.88. Each transparent source was checked for genuinely transparent pixels; the five sprites retain alpha. The six files total 206,930 bytes; all fourteen shipped art assets total 335,428 bytes. The lazy game runtime now requests eleven files totaling 288,756 bytes. Setup still requests no artwork.
 
 Craft radii/health, first-person target radii and attack timing are rule-owned and intentionally updated by this follow-up. Decorative detail adds no hit geometry. Sprites face committed travel directions. Warnings, health pips, lasers, feedback and text remain separate from art. The foreground rifle sits above cover; other sprites remain beneath feedback. Images and labels use bounded reusable pools, with retirement on mode changes and procedural fallbacks for missing individual assets.
+
+## Recessed corridor airlocks — 2026-11-06
+
+For the approved cleaner-corridor pass in PR #75, `public/art/boarding-corridor.webp` is replaced with an original built-in OpenAI image-generation edit of the existing corridor. Two passes establish closed weathered-metal leaves, then move the doors into the foreground side walls beside the existing rule-owned control positions. Exact prompts and reference roles are recorded in [boarding-corridor-art-prompts.json](boarding-corridor-art-prompts.json). No external assets or campaign material were used.
+
+The final 1122×1402 source PNG (`exec-19f2c876-cc7b-499c-b95a-a2120339e766.png`) stays outside the repository under the session's generated-images directory. Browser-canvas resizing and WebP encoding at quality 0.88 produce the shipped **640×800 / 92,534-byte** background (formerly 95,268 bytes). The fourteen assets now total **332,694 bytes**, and the lazy runtime requests **286,022 bytes**. Setup still loads no game art.
+
+Door leaves reuse rectangular crops from the same corridor texture at its full scene scale. Two reusable GeometryMasks clip the four moving leaf images to the recessed openings; pooled images clear crops and masks before being reused in other roles/modes. Perspective shaded polygons remain the missing-texture fallback. These door outlines and visual ejection destinations are presentation geometry only: target centers/radii, bay ejection zones, timing, hit ordering and scoring remain rule-owned.

diff --git a/docs/boarding-party-clarity.md b/docs/boarding-party-clarity.md
@@ -27,7 +27,7 @@ Turret cooldowns, three hull, collision grace and the entire aft-launcher contra
 
 ## First-person Life Support
 
-The approved [cargo/airlock follow-up](boarding-cargo-airlocks.md) supersedes the cover presentation and Q/E/button activation below. Current Life Support uses fixed layered cargo and shootable side-door targets during crossing opportunities. The timings and damage rules below remain applicable.
+The approved [cargo/airlock follow-up](boarding-cargo-airlocks.md) supersedes the cover presentation, four-slot population, floating state labels and Q/E/button activation below. Current Life Support uses six fixed cargo stacks, two boarders (one slot per side), nonverbal cues and shootable side-door targets during crossing opportunities. The timings and damage rules below remain applicable.
 
 The player holds one stationary corridor position. A generated corridor, rifle and hostile boarder art replace the overhead icons. Rule-owned depth controls position, scale and target radius; art never defines collision geometry. Cover masks lower bodies, exposed targets have clear aiming/firing cues, incoming lasers have a visible travel path and damage flashes identify their source side. Covered and relocating targets block rifle fire.
 

diff --git a/docs/scoring-calibration.md b/docs/scoring-calibration.md
@@ -147,3 +147,5 @@ Owner feedback at check 10 motivated gentler Boarding Gunner/Bomber launch windo
 The PR #74 carrier-cycle review fix corrects a discontinuity at staging boundaries and preserves piecewise swept collision timing. Recalibration updates only Boarding Bomber's high anchor from 1917 to 1454 within the unreleased v0.7. Pilot/Gunner/Life Support anchors and the original eight modes' references remain fixed; revised percentiles and the reproduction are recorded in the follow-up playtest document.
 
 The cargo/airlock follow-up updates the engaged Life Support profile to shoot lit door targets using its rifle, rather than sending removed vent requests. Re-running all 288 samples per mode preserves every observed percentile, including Life Support **61 / 3100 / 4900** (P10/P50/P90). Rewards, fixed anchors, and report version v0.7 remain unchanged. See [validation and owner checks](boarding-cargo-airlocks.md).
+
+The cleaner-corridor revision caps active Life Support boarders at two, one per side. Its 288 seeded runs keep P10/P50/P90 at **61/3100/4900** and maximum 4900; the minimum changes from **55 to 57**. Every other mode's samples remain unchanged. Existing anchors, rewards and v0.7 remain in place pending human balance acceptance.
